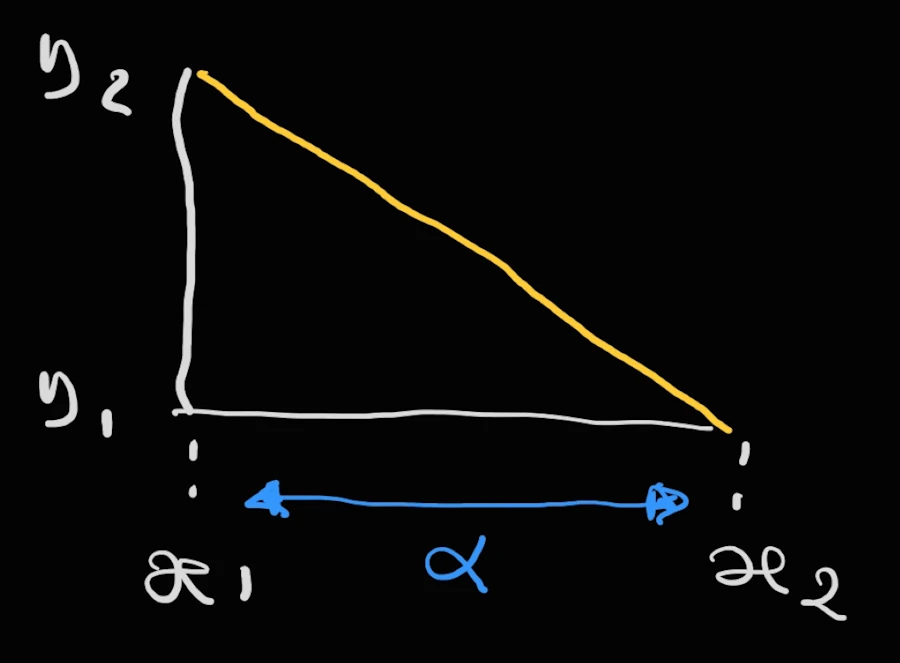
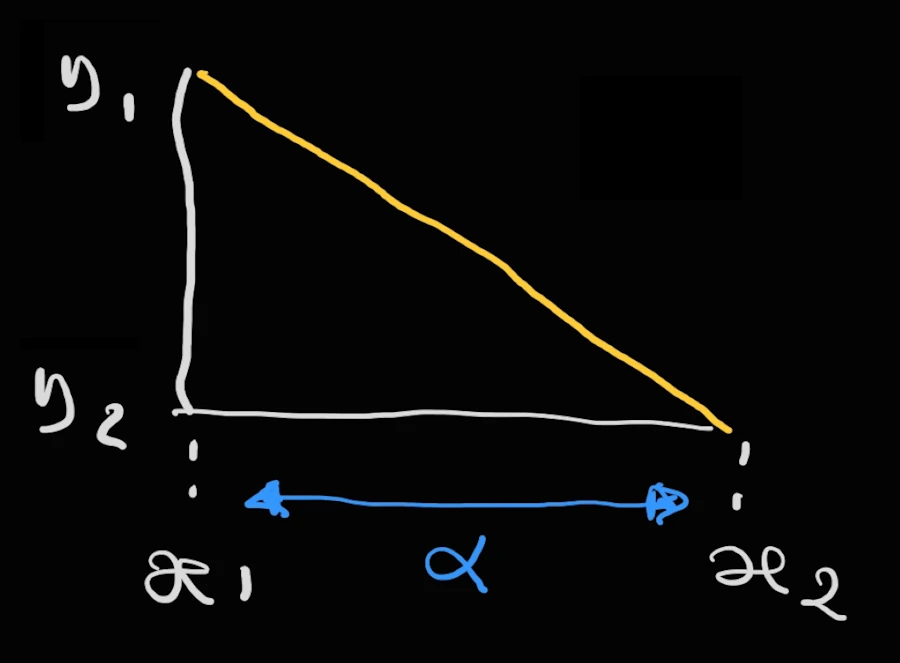
Review and publish 1D

Changed region(s): [[0.0311, 0.0302, 0.1556, 0.181], [0.0311, 0.543, 0.1556, 0.6938]]

diff --git a/docs/09_machine_learning/002_gradient_descent/gradient_descent.md b/docs/09_machine_learning/002_gradient_descent/gradient_descent.md
@@ -7,7 +7,7 @@ description:
 parent: "Machine Learning"
 math: mathjax
 date:               2025-11-20 15:00:00 +0000
-last_modified_date: 2025-11-20 15:00:00 +0000
+last_modified_date: 2025-11-21 16:00:00 +0000
 # nav_order: 9
 # permalink: /machine_learning/
 ---
@@ -16,9 +16,9 @@ last_modified_date: 2025-11-20 15:00:00 +0000
 {: .no_toc }
 
 
-<h2 align="center">
+<!-- <h2 align="center">
 <span style="color:orange"><b> 🚧 This post is under construction 🚧</b></span>
-</h2>
+</h2> -->
 
 
 
@@ -26,12 +26,12 @@ last_modified_date: 2025-11-20 15:00:00 +0000
 {: .no_toc }
 
 * a variable $$y$$
-* error between $$y$$ and $$y-true$$
+* error between $$y$$ and $$y_{true}$$
 * cost function in NOT error (it is a function of the error $$cost(error)$$)
 * slope, gradient, derivative of the cost function with respect to the variable $$y$$
-* learning rate ($$\alpha$$)
+* learning rate ($$\alpha$$, the step by which we progress along the x-axis)
 * error ➡ cost(error) ➡ derivative ➡ $$y_2 = y_1 - \alpha \cdot \text{grad}$$
-*
+* Gradient descent = Taking a step towards the target (where the cost=0)
 
 
 
@@ -125,7 +125,7 @@ Where:
 - $$x$$ is the horizontal distance (300 cm to the wall)
 - $$y$$ is the height where the laser hits
 - $$a$$ is the angle (technically the slope/tangent of the angle)
-- $$b$$ is your starting height (0 inches in our case)
+- $$b$$ is your starting height (0 cm in our case)
 
 Since you're holding the laser steady at chest height, $$b = 0$$, and you can only adjust the angle $$a$$. So our equation simplifies to:
 
@@ -238,7 +238,10 @@ Ok, you're right... Let's talk about the slope, our mathematical "Tilt-O-Meter".
 
 So, we have our cost function, $$J = (\text{y-laser} - \text{y-target})^2$$. Imagine we graph this. Since the only thing changing is `y-laser`, we get a simple U-shaped curve because $$J = (\text{y-laser} - \text{y-target})^2 \approx (x - k)^2 \approx x^2$$. This is nothing else than a parabola where the bottom of the "U" is right where `y-laser` equals `y-target`— that's our bullseye, where the cost is zero.
 
-Let's play with Python and draw the curve:
+#### **Let's play with Python**
+{: .no_toc }
+
+Paste the code below in [JupyterLab](https://jupyter.org/try-jupyter/lab/).
 
 ```python
 import numpy as np
@@ -254,7 +257,7 @@ y_target = 100
 # Create an array of value for y_laser
 y_laser = np.linspace(70, 130, 100)  # from 70cm to 130cm
 
-# Calcultat the cost function J = (y_laser - y_target)²
+# Calculate the cost function J = (y_laser - y_target)²
 J = (y_laser - y_target)**2
 
 # Create graph
@@ -269,7 +272,7 @@ plt.plot(y_laser[min_index], J[min_index], 'ro', markersize=8, label='Minimum (c
 # Personnalisation du graphique
 plt.xlabel('Laser Position $y_{laser}$ (cm)', fontsize=12)
 plt.ylabel('Cost $J$', fontsize=12)
-plt.title('Cost Function: Suared Error', fontsize=14)
+plt.title('Cost Function: Squared Error', fontsize=14)
 plt.grid(True, alpha=0.3)
 plt.legend(fontsize=11)
 
@@ -291,7 +294,7 @@ plt.show()
 <span>Drawing the cost function.</span>
 </div>
 
-Put your index on the horizontal axis (`Laser position ylaser`) and move it slowly from left to right. Reach the point $$y-laser=80$$ and say it load : "when `y_laser` is 80 centimeters, the cost is 400". Continue and reach the point where $$y-laser=100$$ and say it load : "when `y_laser` is 100 centimeters, the cost is 0". One more time, just to make sure... Put your finger on point $$y-laser=110$$ and say it load : "when `y_laser` is 110 centimeters, the cost is 100".
+Now, put your index on the horizontal axis (`Laser position ylaser`) and move it slowly from left to right. Reach the point $$y-laser=80$$ and say it load : "when `y_laser` is 80 centimeters, the cost is 400". Continue and reach the point where $$y-laser=100$$ and say it load : "when `y_laser` is 100 centimeters, the cost is 0". One more time, just to make sure... Put your finger on point $$y-laser=110$$ and say it load : "when `y_laser` is 110 centimeters, the cost is 100".
 
 It is important to realize and understand that positioning the laser at 80 cm is just as wrong as positioning it at 120 cm. In both cases, the cost is the same (400).
 
@@ -372,7 +375,7 @@ OK, let'm simplify the notation and "redraw" the previous parabola. You were sno
 <!-- <span>Drawing the cost function.</span> -->
 </div>
 
-You are spted on the upper point and you want to reach the second, lower point. One "good" approximation (and trust me the closer the 2 points the better the approximation) is to use the yellow line. The yellow line is the tangente at the first point.
+You are on the upper point and you want to reach the second, lower point. One "good" approximation (and trust me the closer the 2 points the better the approximation) is to use the yellow line. The yellow line is the tangente at the first point.
 
 Let's zoon in and it comes:
 
@@ -382,9 +385,10 @@ Let's zoon in and it comes:
 <!-- <span>Drawing the cost function.</span> -->
 </div>
 
-x1 and y1 are the coordinates of the first point (where you are) and (x2, y2) are the coordinate where you want to go. With the information available on the fantastic figure how would you do? What do you know... Do not overthink. Make it simple...
+$$x_1$$ and $$y_1$$ are the coordinates of the first point (where you are) and ($$x_2$$, $$y_2$$) are the coordinates where you want to go. With the information available on the "fantastic" figure above, how would you do? What do you know? Do not overthink. Make it simple...
 
-Yes! From the kinder garden you remember that: $$tan(angle) = \frac{\Delta{y}}{\Delta{x}}$$
+Yes! From the kinder garden you remember that: $$tan(angle) = \frac{\Delta{y}}{\Delta{x}}$$.
+
 Now, let's keep in mind that the tangent is the slope, the gradient. Finally we also know that $$x_2 = x_1 + \alpha$$ where $$\alpha$$ is the learning rate (the step by which we want to progress along the x-axis).
 
 At the end of the day it comes:
@@ -392,20 +396,20 @@ At the end of the day it comes:
 $$\begin{aligned}
 tan(angle) & = \frac{\Delta{y}}{\Delta{x}} \\
 \text{gradient} & = \frac{\Delta{y}}{\Delta{x}} \\
-\text{gradient} & = \frac{y_2-y_1}{x_2 - x_1} \\
+\text{gradient} & = \frac{y_1 -y_2}{x_2 - x_1} \\
 \text{gradient} &= \frac{y_1 - y_2}{\alpha} \\
 \alpha \cdot \text{gradient} & = y_1 - y_2 \\
-\alpha \cdot \text{gradient} - y_1 & =  - y_2 \\
+-\alpha \cdot \text{gradient} - y_1 & =  - y_2 \\
 -\alpha \cdot \text{gradient} + y_1 & =  y_2 \\
 y_2 & =  y_1 -\alpha \cdot \text{gradient}  \\
 \end{aligned}
 $$
 
-Note that above I make sure to use the index in the same order: $$y_2-y1$$ then $$x_2-x1$$. At the end, this the formula used earlier.
+Note that above, since you are going downhill while sliding to the right, $$y$$ is decreasing while $$x$$ is increasing. This explains why we have $$y_1-y_2$$ on the numerator and $$x_2-x_1$$ on the denominator.
 
 
 
-#### **Let's Run the Simulation**
+#### **Let's Run the Simulation by hand**
 {: .no_toc }
 
 Let's say:
@@ -579,10 +583,13 @@ print(f"Number of steps to converge: {steps}")
 
 
 
-#### **Q&A - Checking understanding**
+#### **Q&A - Checking for understanding**
 * Why the cost function does not raise the error to the power of 3?
 * Why is a cost function that raises the error to the power of 2 said to punish large errors more than a cost function that uses the absolute value of the error?
-
+* What happens if the learning rate is 10 times smaller?
+* If you start with y_laser = 97 cm (below the target at 100 cm), will the gradient be positive or negative? In which direction will the laser move after the update?
+* What happens if the learning rate α is too large (for example α = 1.5)? Will the system still converge to the target?
+* Why is the gradient multiplied by 2 in the derivative formula (gradient = 2 × error)? Does this factor of 2 fundamentally change the behavior of the algorithm?
 
 <!-- In real machine learning, there aren't just two parameters (like $$x$$ and $$y$$); there can be millions! But the core principle remains the same: calculate the gradient (the multi-directional "shout" for each parameter) and take a small step in the opposite direction to minimize the total cost.
 
@@ -663,7 +670,10 @@ That's the beauty of gradient descent - it's a simple idea that scales to solve 
 <!-- ###################################################################### -->
 <!-- ###################################################################### -->
 
-## Conclusion
+## What is Next?
+
+* Part 2: where we will do gradient descent in 2D
+* Part 3: where we will generalize to N dimensions
 
 
 <!-- ###################################################################### -->
